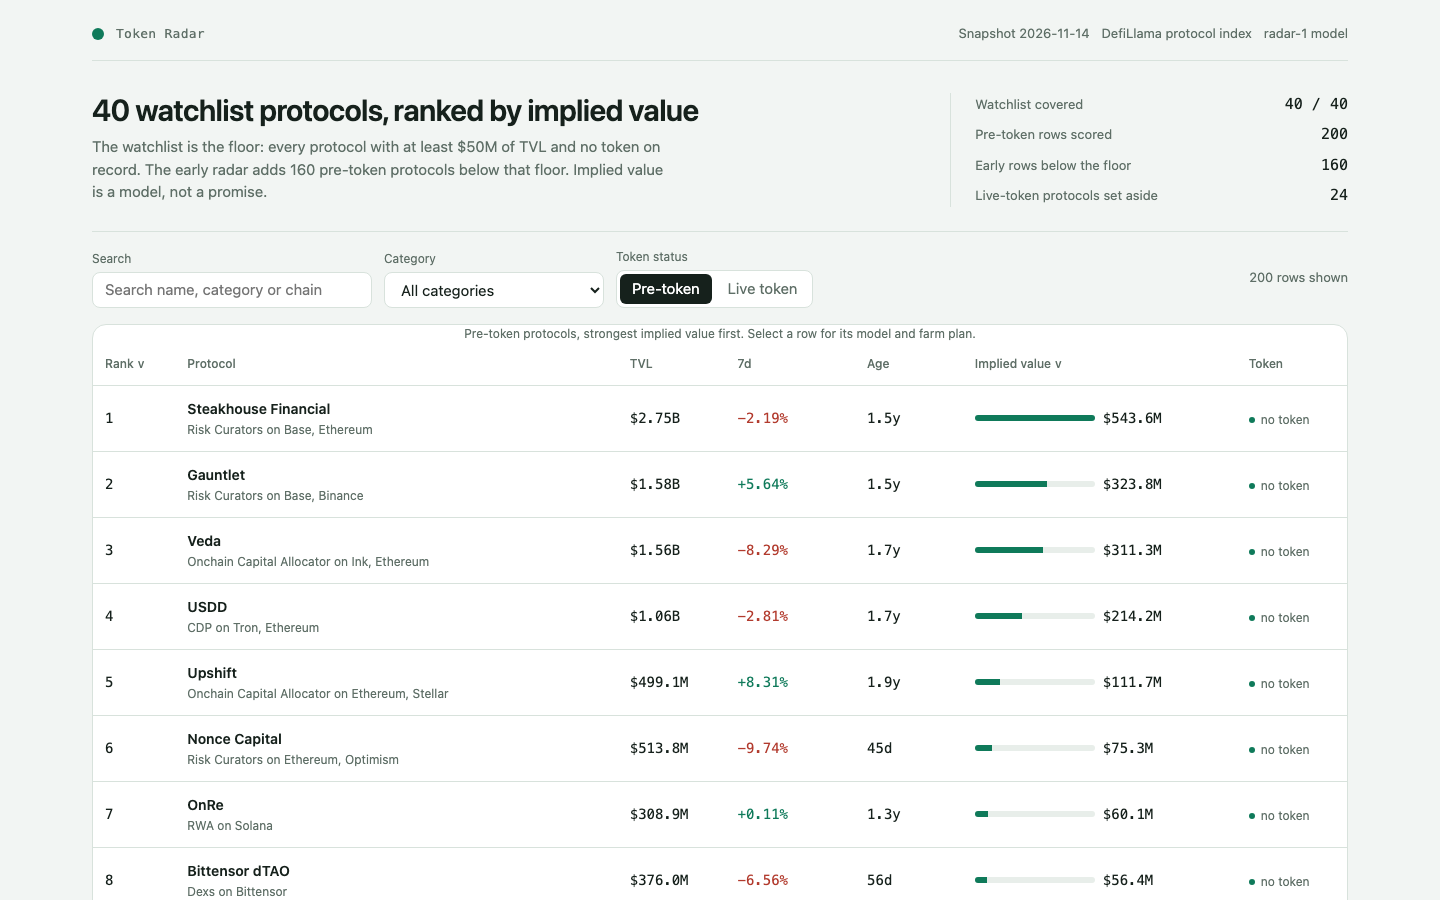
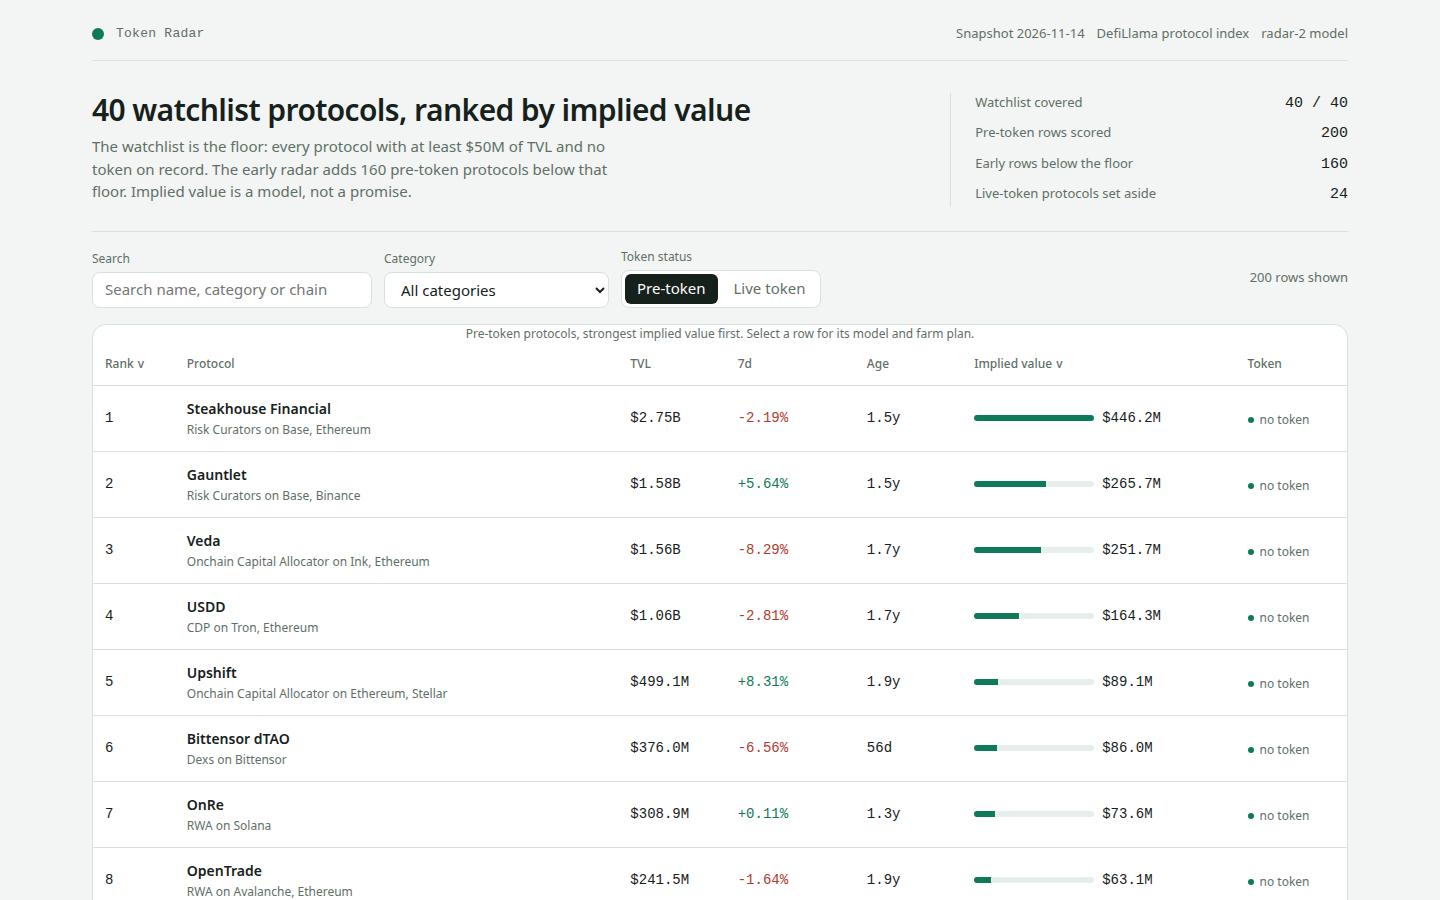
screenshots: regenerate all three from the v2 board + anchor label fix
- 1-board.png, 2-detail.png (Steakhouse Financial), 3-filtered.png
  (Risk Curators, 29 rows) at 1440x900, all under 512KB, shot with
  the headless Chromium shell from the v2 dashboard output
- detail + worked example now say 'global fallback' when a
  category has <5 live comparables, and pluralize 'comparable'
  correctly

diff --git a/dashboard/app.js b/dashboard/app.js
@@ -34,8 +34,14 @@
   function anchorOf(category) {
     var hit = null;
     (DATA.anchors || []).forEach(function (a) { if (a.category === (category || 'Other')) hit = a; });
-    if (hit) return { multiple: hit.multiple, comps: hit.comps };
-    return { multiple: DATA.global_anchor, comps: 0 };
+    if (hit) return { multiple: hit.multiple, comps: hit.comps, fallback: hit.fallback };
+    return { multiple: DATA.global_anchor, comps: 0, fallback: true };
+  }
+  function anchorLabel(category) {
+    var a = anchorOf(category);
+    var label = (category || 'Other') + ', ' + a.comps + ' live comparable' + (a.comps === 1 ? '' : 's');
+    if (a.fallback) label += ' — global fallback';
+    return label;
   }
   function impliedOf(row, model) {
     var anchor = anchorOf(row.category);
@@ -317,8 +323,7 @@
     });
     var example = '';
     if (top) {
-      var a = anchorOf(top.category);
-      example = top.name + ': ' + fmtUsd(top.tvl_usd) + ' TVL x ' + top.category_multiple + ' (' + (top.category || 'Other') + ' anchor, ' + a.comps + ' live comparables) x ' + top.growth_multiplier + ' growth x ' + top.maturity_multiplier + ' maturity x ' + top.chain_multiplier + ' chains = ' + fmtUsd(top.implied_value_usd) + '.';
+      example = top.name + ': ' + fmtUsd(top.tvl_usd) + ' TVL x ' + top.category_multiple + ' (' + anchorLabel(top.category) + ') x ' + top.growth_multiplier + ' growth x ' + top.maturity_multiplier + ' maturity x ' + top.chain_multiplier + ' chains = ' + fmtUsd(top.implied_value_usd) + '.';
     }
     return el('section', { class: 'panel model' },
       el('h2', { text: 'How implied value is computed' }),
@@ -360,7 +365,7 @@
       el('h3', { text: 'Implied value' }),
       el('div', { class: 'equation' },
         el('div', null, el('span', { text: 'TVL' }), el('b', { class: 'num', text: fmtUsd(row.tvl_usd) })),
-        el('div', null, el('span', { text: 'Category anchor (' + (row.category || 'Other') + ', ' + anchorOf(row.category).comps + ' live comparables)' }), el('b', { class: 'num', text: String(row.category_multiple) })),
+        el('div', null, el('span', { text: 'Category anchor (' + anchorLabel(row.category) + ')' }), el('b', { class: 'num', text: String(row.category_multiple) })),
         el('div', null, el('span', { text: 'Seven-day growth' }), el('b', { class: 'num', text: fmtPct(row.change_7d) })),
         el('div', null, el('span', { text: 'Age with no token' }), el('b', { class: 'num', text: fmtAge(row.age_days) })),
         el('div', null, el('span', { text: 'Growth multiplier' }), el('b', { class: 'num', text: String(row.growth_multiplier) })),
